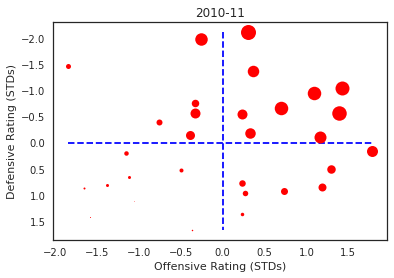
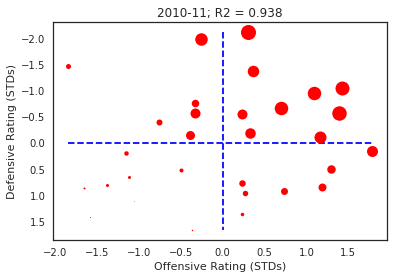
adding comments

Changed region(s): [[0.3959, 0.0288, 0.731, 0.0863]]

diff --git a/project3/report3.md b/project3/report3.md
@@ -1,9 +1,7 @@
 # NBA Data Analysis
 ### Bryce Mann
 
-The NBA has changed a lot in recent years; the rise of so-called 'advanced stats' (metrics computed from basic counting stats) and teams' increasing tendency to use the help of these analytics to make their decisions have been big reasons why. That is part of the reason why it is so fun to poke around the league's data: you never know when you'll be able to find something that might be useful to a real team or player.
-
-For all of my code, see [this Jupyter notebook](https://github.com/brycemann8334/Project3_DataScience/blob/master/project3/NotebookFinal.md).
+Just this past season the NBA as a whole made more 3-point shots (~27,000) than were made during the first 11 **years** (~23,000) after the 3-point line was introduced; the game is evolving drastically and rapidly, mainly due to the rise of so-called 'advanced stats' (metrics computed from basic counting stats) and teams increasing tendency to use the help of these analytics to make decisions. The NBA keeps extensive amounts of data on each player, team, and game, so I use some of it to try and answer a question about how the game is changing and another about the reliability of current players. For all of the code used to generate these answers, see [this Jupyter notebook](https://github.com/brycemann8334/Project3_DataScience/blob/master/project3/NotebookFinal.md).
 
 ## Acknowledgements
 [stats.nba.com](stats.nba.com) is the source of all of the data I used. I want to give credit and thanks to swar, who created the nba_api python library that allows me to easily access the data (found on his github, [here](https://github.com/swar/nba_api)).
@@ -14,11 +12,11 @@ To try and answer this question I looked at Offensive and Defensive efficiency. 
 
 ![](plots/eff.png)
 
-*Notice that the y-axis is inverted; that's just an aesthetic decision so that teams with good offenses and good defenses are in the upper right quadrant.*
+*Notice that the y-axis is inverted; that's just an aesthetic decision so that teams with good offenses and good defenses are in the upper right quadrant. The R^2 value in the title was computed by running multiple regression, with offensive and defensive efficiency the independent variables, and final league standings rank the dependent variable.*
 
 I am interested in how these two metrics can predict a team's success (which I define as their rank in the league standings, where 1 is the best), so each dot on the plot has a size proportional to their final rank. Looking at the upper right hand quadrant, we see what we expect and that is teams with good offenses and defenses tend to be more successful.
 
-Now I can try to answer my question by running multiple regression with the efficiencies as independent variables and teams final ranking as the dependent variable for each year. This gives me a coefficient pair for each season; I then divided the offensive coefficient by the defensive coefficient to get a ratio. Since all of the efficiencies were standardized this ratio tells us the relative importance of offense and defense in predicting the final standings. This allowed me to plot the time series below.
+Now I can try to answer my question by running multiple regression with the efficiencies as independent variables and teams final ranking as the dependent variable for each year. This gives me a coefficient pair for each season; I then divided the offensive coefficient by the defensive coefficient to get a ratio. Since all of the efficiencies were standardized this ratio tells us the relative importance of offense and defense in predicting the final standings. The regression model allowed me to compute the R^2 value (in the title of the previous plot). The fact that all of the seasons have high R^2 values (>.8) gives me confidence that computing the ratio between efficiency coefficients is a good way to see relative importance of each side of the ball, since they have very good predictive behavior. This allowed me to plot the time series below.
 
 ![](plots/eff_time.png)
 
